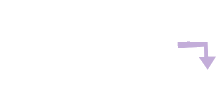
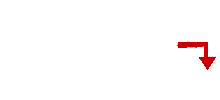
Alteração da cor dos Nós para melhor visualização

Changed region(s): [[0.7909, 0.42, 0.9818, 0.69]]

diff --git a/public/js/ldde/images.js b/public/js/ldde/images.js
@@ -1,13 +1,46 @@
 //Imagens dos nós
 
+//Primeiros Nós
 var fNo = new Image();
 fNo.src = "../public/img/ldde/firstNo.png";
 
+//primeiro Nó com ponteiro para um próximo
 var fNo_p = new Image();
 fNo_p.src = "../public/img/ldde/fisrtNoWN.png";
 
+//Primeiro Nó destacado
+var fNo_ps = new Image();
+fNo_ps.src = "../public/img/ldde/fisrtNoWN_s.png";
+
+//Ponteiro do primeiro Nó destacado
+var fNo_pps = new Image();
+fNo_pps.src = "../public/img/ldde/fisrtNoWN_ps.png";
+
+
+
+//Nó com dupla ligação
 var no_dl = new Image();
 no_dl.src = "../public/img/ldde/noDL.png";
 
+//Nó com dupla ligação destacado
+var no_dlS = new Image();
+no_dlS.src = "../public/img/ldde/noDL_s.png";
+
+//Ponteiro do Nó com dupla ligação destacado
+var no_dlPS = new Image();
+no_dlS.src = "../public/img/ldde/noDL_ps.png";
+
+
+
+
+//Ultimo Nó
 var lastNo = new Image();
 lastNo.src = "../public/img/ldde/lastNo.png";
+
+//Ultimo Nó (destacado)
+var lastNoS = new Image();
+lastNoS.src = "../public/img/ldde/lastNo_s.png";
+
+//Ponteiro do ultimo No destacado
+var lastNoPS = new Image();
+lastNoPS.src = "../public/img/ldde/lastNo_ps.png";

diff --git a/public/js/ldde/render.js b/public/js/ldde/render.js
@@ -119,9 +119,19 @@ function moveNos(){
 }
 
 
+function selectAnimation(num){
+    ctx.fillText(ldde[num].valor.toString(), ldde[num].crd.x+95, ldde[num].crd.y+55);
+    ctx.drawImage(fNo_ps, 0, 0, 220, 100,ldde[num].crd.x, ldde[num].crd.y, 220, 100);
+    sleep();
+    ctx.fillText(ldde[num].valor.toString(), ldde[num].crd.x+95, ldde[num].crd.y+55);
+    ctx.drawImage(fNo_pps, 0, 0, 220, 100,ldde[num].crd.x, ldde[num].crd.y, 220, 100);
+}
 
-function buscaAnimation(){
-    
+function sleep(){
+    var time = 0;
+    while(time < 10000000000){
+        time++;
+    }
 }
 
 limpaTela();
